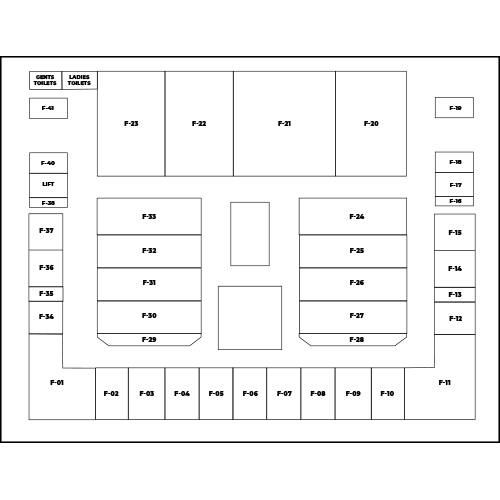
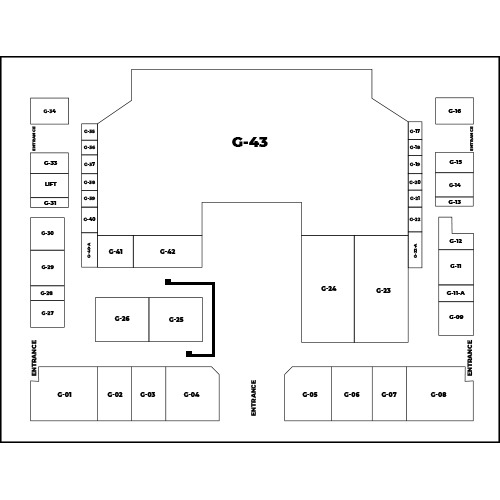
API Completed and Added 2 routes on Ground Floor.

diff --git a/fyp.py b/fyp.py
@@ -102,6 +102,9 @@ def Path(loc,dest):
     GroundTShop = ['G-04','G-25','G-03','G-26','G-02','G-01','G-27','G-28','EMPTY','G-41','G-42','EMPTY','EMPTY','G-43']
     GroundRShop = ['G-34','G-35','G-36','G-33','G-37','G-38','Lift','G-39','G-31','G-40','G-30','G-40A','G-29','EMPTY','G-41','G-42',
     'EMPTY','EMPTY','G-43']
+    GroundHShop = ['G-02','G-26','G-03','G-25','G-04','EMPTY','EMPTY','EMPTY','G-43']
+    GroundIShop = ['G-03','G-25','G-04','EMPTY','EMPTY','G-42','G-41']
+
     # Ground Floor Shop Pixels Array
     GroundFPixels = [[110,75],[132,75],[147,75],[162,75],[164,75],[183,75],[188,75],[198,75],[202,75],[219,75],[233,75],[251,75],[264,75],[293,75],[318,75],[354,75],[354,115],[354,122],
     [354,148],[354,174],[354,188],[354,308],[354,328],[354,350],[354,380],[354,386],[354,429],[316,429],[293,429],[266,429],[251,429],[240,429],[218,429],[202,429],[198,429],[189,429],
@@ -111,6 +114,8 @@ def Path(loc,dest):
     GroundTPixels = [[354,188],[354,174],[354,148],[354,122],[354,115],[354,75],[318,75],[293,75],[282,75],[282,115],[282,167],[282,212],[212,212],[212,250]]
     GroundRPixels = [[110,75],[132,75],[147,75],[162,75],[164,75],[183,75],[188,75],[198,75],[202,75],[219,75],[233,75],[251,75],[264,75],[282,75],[282,115],[282,167],
     [282,212],[212,212],[212,250]]
+    GroundHPixels = [[354,116],[354,123],[354,148],[354,175],[354,189],[354,212],[282,212],[212,212],[212,251]]
+    GroundIPixels = [[354,148],[354,175],[354,189],[354,212],[282,212],[282,168],[282,116]]
      # First Floor Shop Array
     FirstFShop = ['F-41','F-40','Lift','F-38','F-33','F-37','F-32','F-36','F-31','F-35','F-30','F-34','F-01',
     'F-02','F-03','F-29','F-04','F-05','F-06','F-07','F-08','F-09','F-28','F-10','F-11','F-12','F-27',
@@ -210,6 +215,22 @@ def Path(loc,dest):
             MarkCurrLoc(LocPixel)
             MarkCurrLoc(DesPixel)
             CreatePath(LocIndex,DesIndex,GroundSPixels)
+        elif((str(loc) in GroundHShop) and (str(dest) in GroundHShop)):
+            LocIndex = GroundHShop.index(str(loc))
+            DesIndex = GroundHShop.index(str(dest))
+            LocPixel = GroundHPixels[LocIndex]
+            DesPixel = GroundHPixels[DesIndex]
+            MarkCurrLoc(LocPixel)
+            MarkCurrLoc(DesPixel)
+            CreatePath(LocIndex,DesIndex,GroundHPixels)
+        elif((str(loc) in GroundIShop) and (str(dest) in GroundIShop)):
+            LocIndex = GroundIShop.index(str(loc))
+            DesIndex = GroundIShop.index(str(dest))
+            LocPixel = GroundIPixels[LocIndex]
+            DesPixel = GroundIPixels[DesIndex]
+            MarkCurrLoc(LocPixel)
+            MarkCurrLoc(DesPixel)
+            CreatePath(LocIndex,DesIndex,GroundIPixels)
         elif((str(loc)in GroundTShop) and (str(dest) in GroundTShop)):
             LocIndex = GroundTShop.index(str(loc))
             DesIndex = GroundTShop.index(str(dest))
